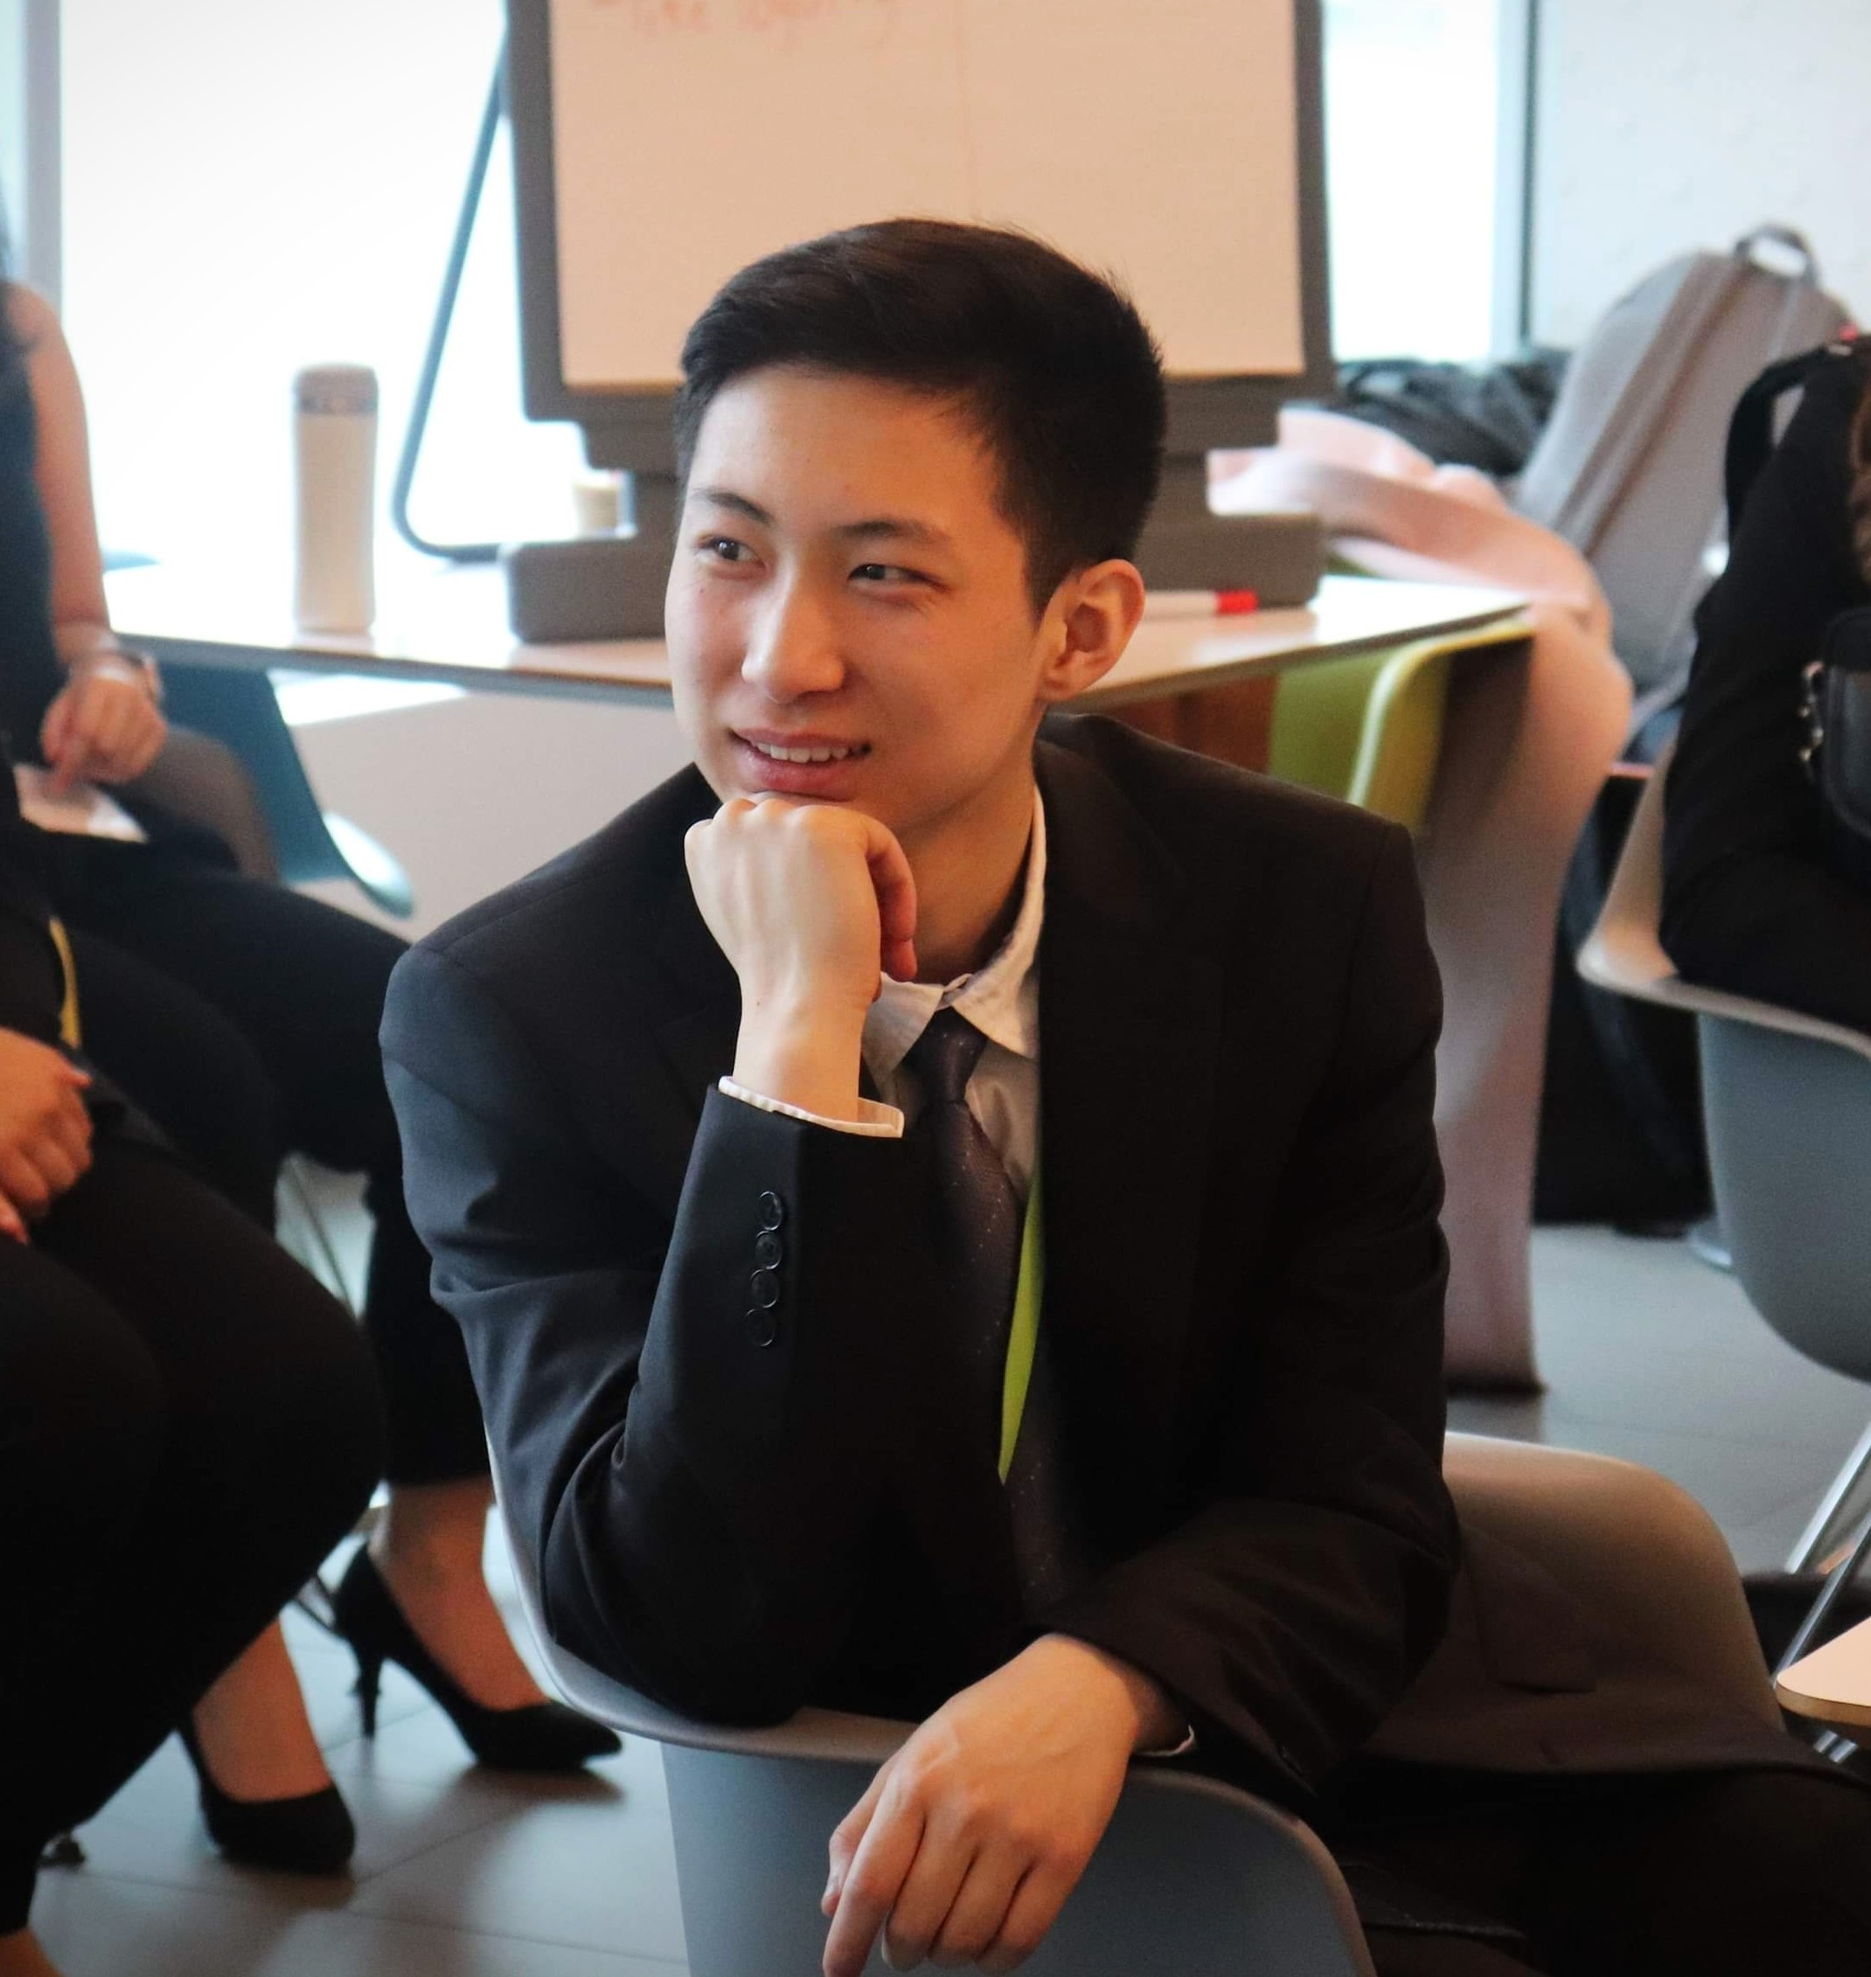
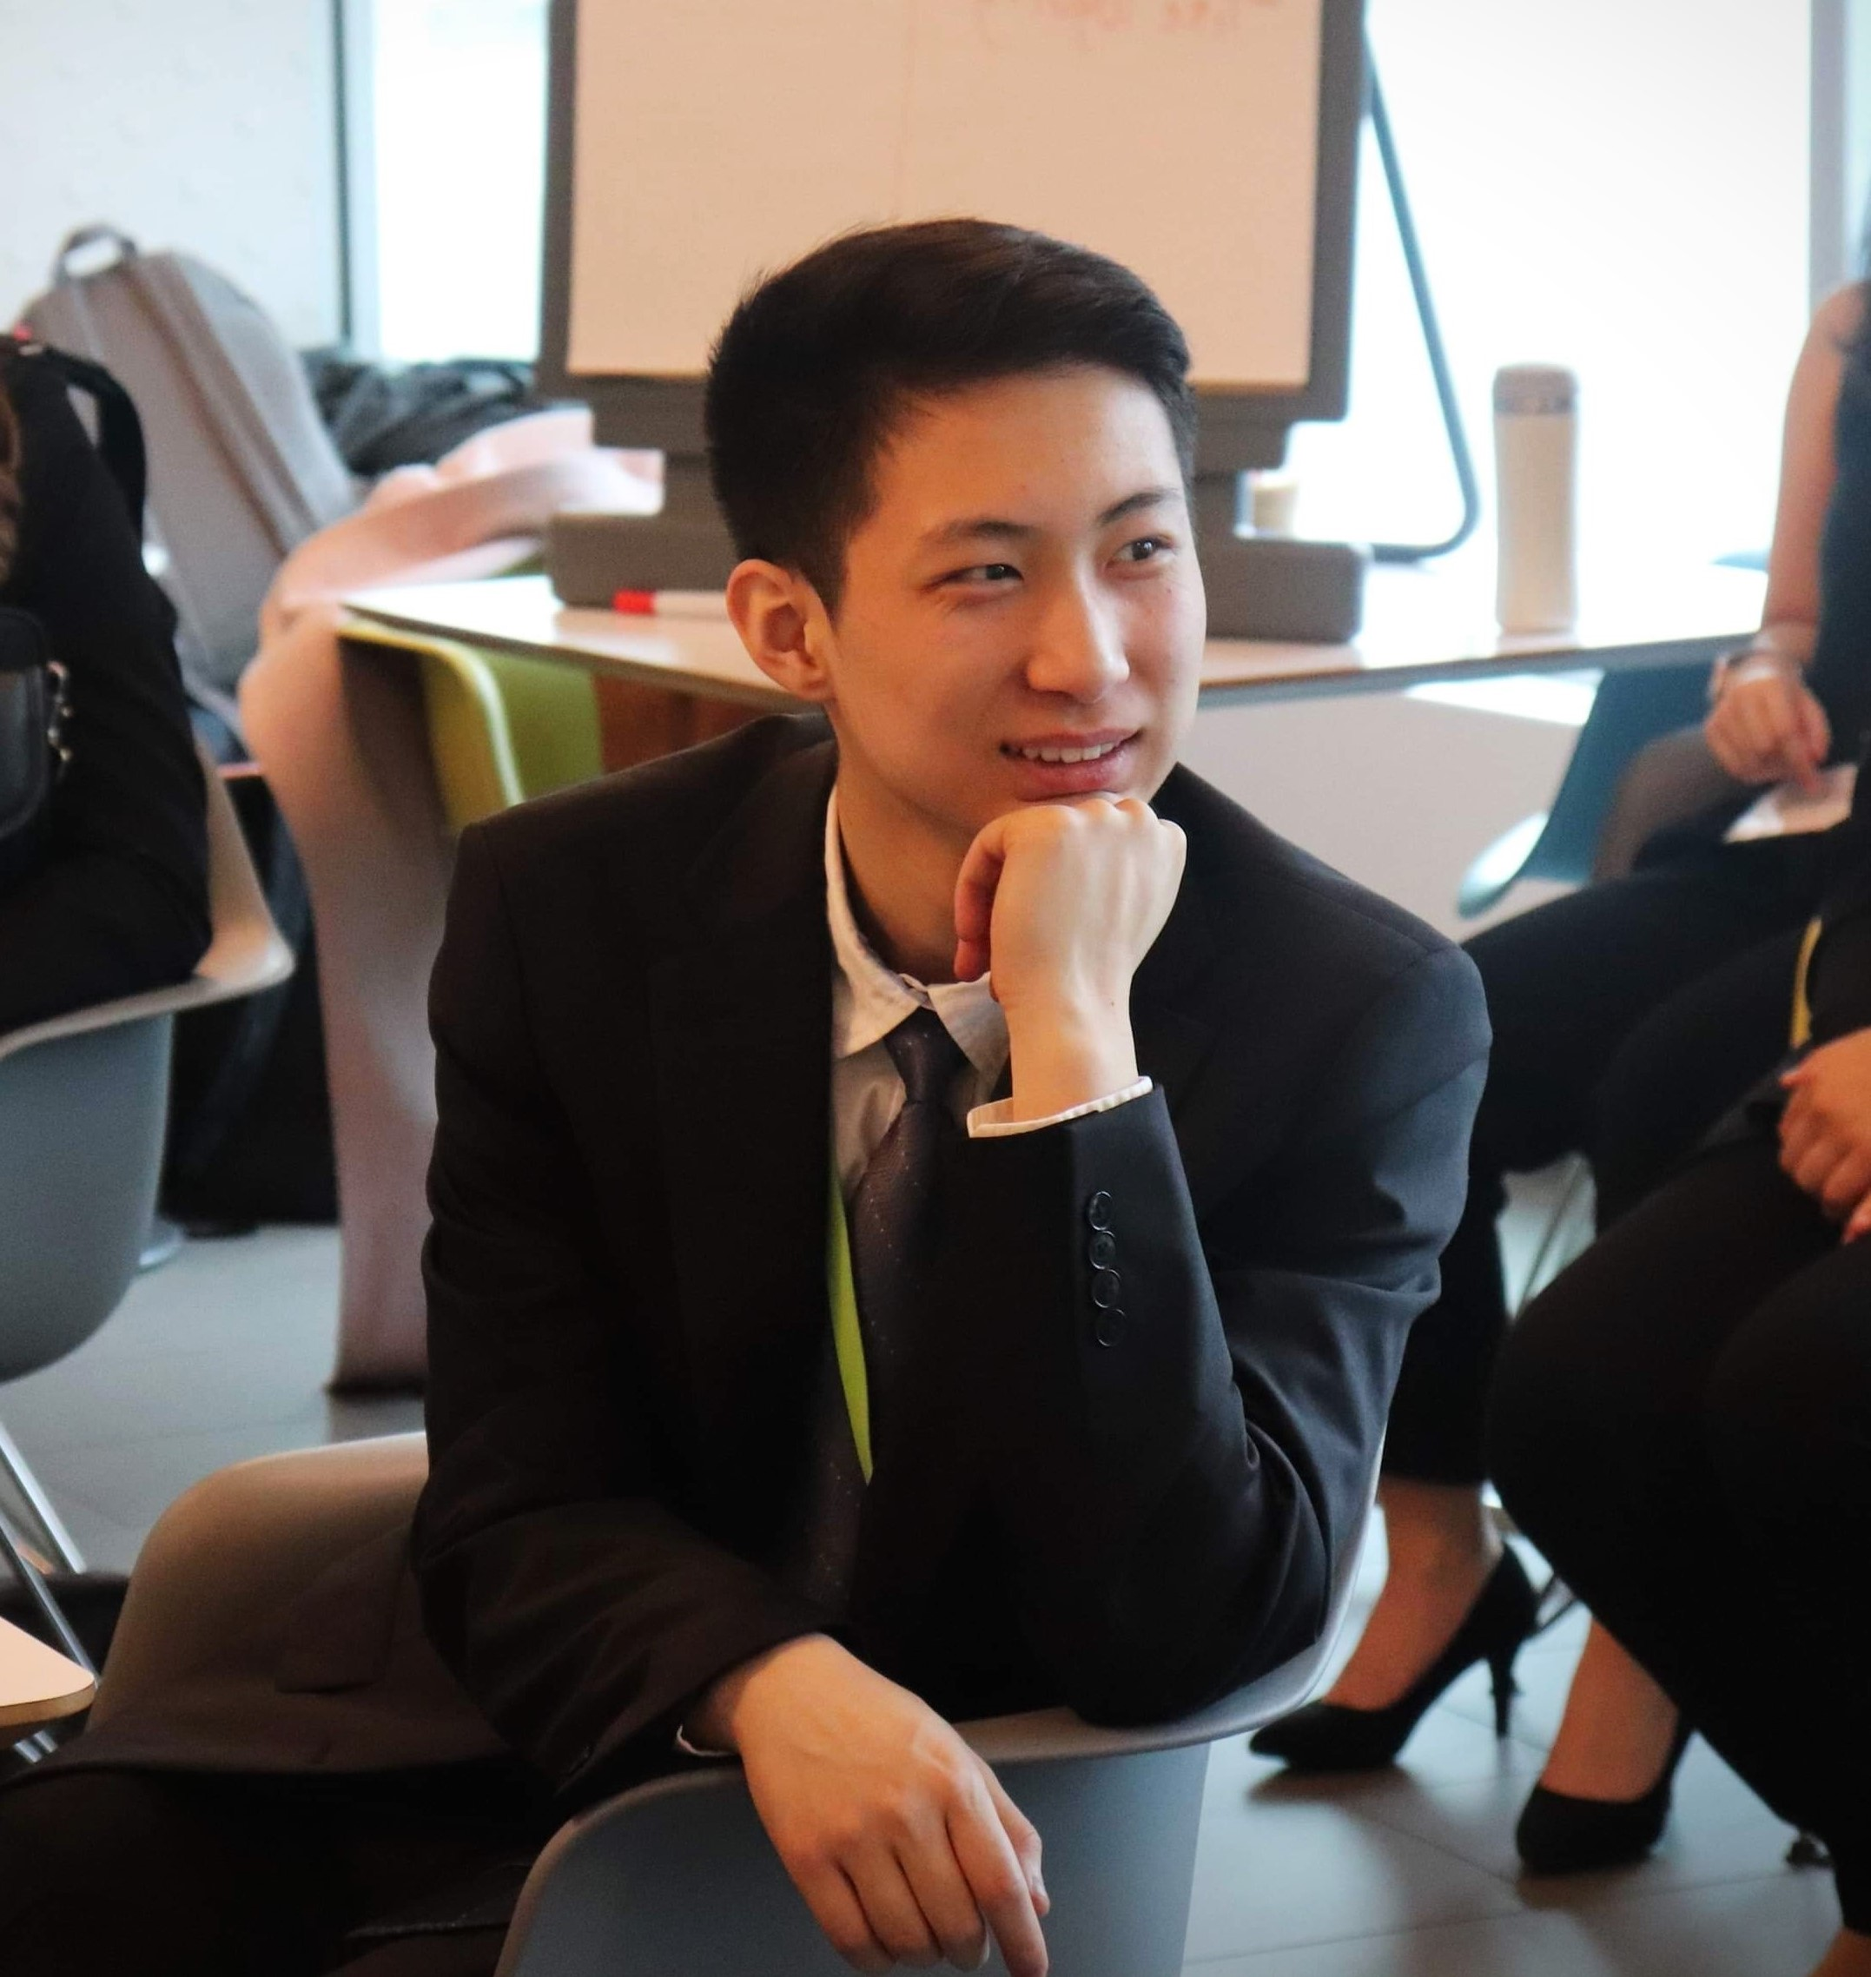
changed nave slightly, added font, other minor changes

diff --git a/index.html b/index.html
@@ -6,7 +6,9 @@
         </title>
 
         <meta name="viewport" content="width=device-width, initial-scale=1, maximum-scale=1, user-scalable=no">
-                
+
+        <link href="https://fonts.googleapis.com/css2?family=Lora:wght@500&display=swap" rel="stylesheet">   
+
         <link rel="stylesheet" href="css/superslides.css">
 
         <link rel="stylesheet" href="https://stackpath.bootstrapcdn.com/bootstrap/4.4.1/css/bootstrap.min.css" integrity="sha384-Vkoo8x4CGsO3+Hhxv8T/Q5PaXtkKtu6ug5TOeNV6gBiFeWPGFN9MuhOf23Q9Ifjh" crossorigin="anonymous">
@@ -41,15 +43,15 @@
 
             <div class="titleMessage">
                 <div class="heading">
-                    <p class="main">Jiazheng (Kevin) Li</p>
-                    <p class="sub typed"></p>
+                    <p class="main strokeText">Jiazheng (Kevin) Li</p>
+                    <p class="sub typed strokeText"></p>
                 </div>
             </div>
 
-            <nav class="slides-navigation">
+            <!-- <nav class="slides-navigation">
                 <a href="#" class="next"></a>
                 <a href="#" class="prev"></a>
-            </nav>
+            </nav> -->
 
         </div>
         
@@ -82,18 +84,20 @@
 
 
         <div id="about" class="section">
-            <div class="row">
+            <div class="row justify-content-center ">
 
-                <div class="col-md-5">
+                <div class="col-md-4">
                 
                     <img class="profilepic" src="img/profilepic.jpg">
+                    <br/>  
 
                 </div>
 
-                <div class="col-md-7">
-                    
+                <div class="col-md-5">
+                    <br/> 
                     <h4>My name is Jiazheng Li, but people know me as Kevin</h4>
                     
+                    <br/> 
                     <p>
                         Hello! My name is Jiazheng Li, but most people call me Kevin. 
                         I am currently a first year Computer Science student at University of Toronto. 
@@ -102,17 +106,20 @@
                         I realized that the best way to do that is through technology, 
                         something that I am very passionate about. 
                     </p>
+                    <br/>
                     <p>
                         I have developed many skills applicable to the professional field through working at Nokia as an intern, 
                         completing my Udacity Nanodegree in Android Programming by Google, working/collaborating on projects, 
                         and taking many courses; in class or online.
                     </p>
+                    <br/>
                     <p>
                         I also have many hobbies! You can normally find me training in Mixed Martial Arts, 
                         playing video games, volunteering, listening to music, or playing chess! 
                         Please just send me an email, I would love to hear from you!
                     </p>
                 </div>
+               
 
             </div>
         </div>

diff --git a/css/style.css b/css/style.css
@@ -1,8 +1,9 @@
 body{
-    font-size: 14px;
+    font-size: 18px;
     color: #333;
     background-color: #f5f6fa;
     letter-spacing: 1px;
+    font-family: 'Lora', serif;
 }
 
 .overlay{
@@ -15,6 +16,10 @@ body{
 
 .slides-navigation{
     z-index: 6;
+}
+.strokeText {
+    
+    text-shadow: -1px -1px 0 #000, 1px -1px 0 #000, -1px 1px 0 #000, 1px 1px 0 #000 !important;
 }
 
 .slides-navigation a.prev,
@@ -60,7 +65,7 @@ p {
 
 }
 .titleMessage .heading .main{
-    font-size: 50px;
+    font-size: 4em;
 }
 
 .titleMessage .heading .sub{
